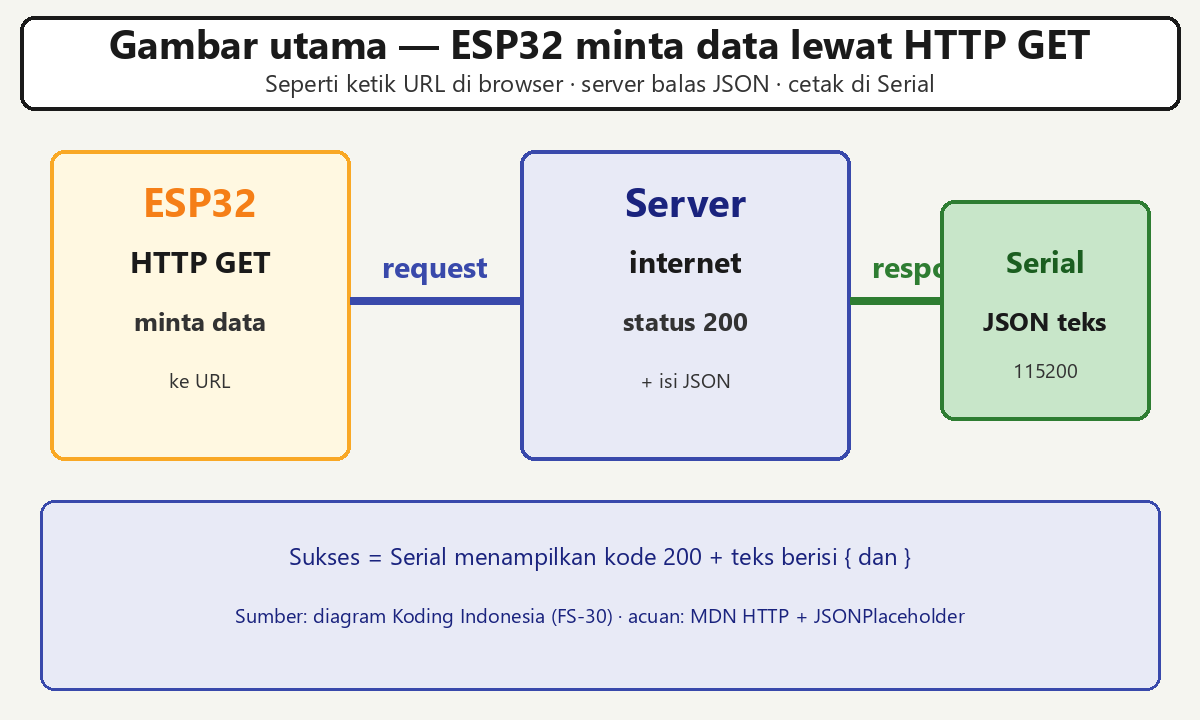
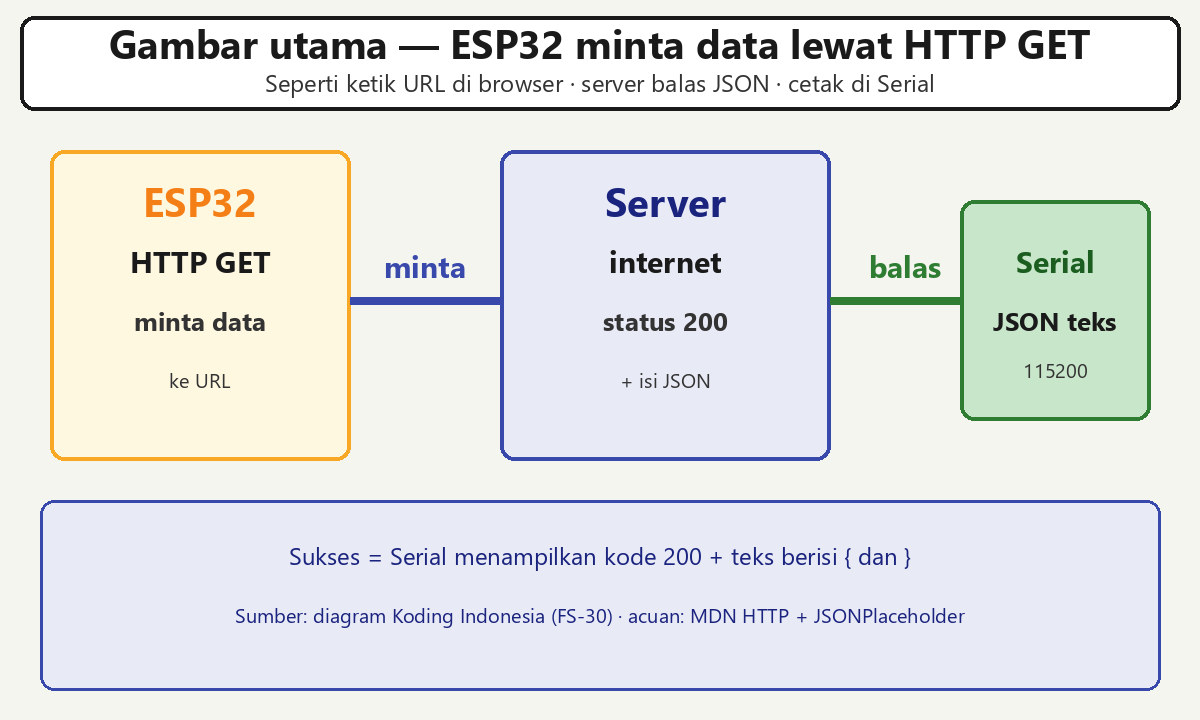
fix(fsiot): #100 QA awam — label gambar + mock browser JSON
Perbaiki label terpotong (minta/balas), status berbahasa ID, tambah latihan mata browser dengan sitasi JSONPlaceholder.

diff --git a/database/seeders/Article100Seeder.php b/database/seeders/Article100Seeder.php
@@ -108,6 +108,30 @@ HTML;
 HTML;
     }
 
+    private function browserFigureId(): string
+    {
+        return <<<'HTML'
+<figure style="margin:1.5rem 0;max-width:100%;background:#F5F5F0;border:2.5px solid #1a1a1a;border-radius:8px;padding:0.75rem 0.75rem 0.35rem">
+  <img src="/images/fsiot/fs30-browser-json.png" width="1200" height="700" alt="Contoh tampilan JSON di browser" loading="eager" style="width:100%;height:auto;max-height:560px;object-fit:contain;border-radius:6px;background:#F5F5F0">
+  <figcaption style="font-size:0.85rem;margin-top:0.5rem;color:#1a1a1a;">
+    <strong>Latihan mata.</strong> Buka URL demo di browser sampai terlihat <code>{</code> … <code>}</code>. Kolase UI buatan Koding Indonesia (FS-30). Isi contoh dari <a href="https://jsonplaceholder.typicode.com/todos/1" rel="noopener noreferrer" target="_blank">JSONPlaceholder /todos/1</a>.
+  </figcaption>
+</figure>
+HTML;
+    }
+
+    private function browserFigureEn(): string
+    {
+        return <<<'HTML'
+<figure style="margin:1.5rem 0;max-width:100%;background:#F5F5F0;border:2.5px solid #1a1a1a;border-radius:8px;padding:0.75rem 0.75rem 0.35rem">
+  <img src="/images/fsiot/fs30-browser-json.png" width="1200" height="700" alt="Example JSON view in a browser" loading="eager" style="width:100%;height:auto;max-height:560px;object-fit:contain;border-radius:6px;background:#F5F5F0">
+  <figcaption style="font-size:0.85rem;margin-top:0.5rem;color:#1a1a1a;">
+    <strong>Eye practice.</strong> Open the demo URL in a browser until you see <code>{</code> … <code>}</code>. UI collage by Koding Indonesia (FS-30). Sample body from <a href="https://jsonplaceholder.typicode.com/todos/1" rel="noopener noreferrer" target="_blank">JSONPlaceholder /todos/1</a>.
+  </figcaption>
+</figure>
+HTML;
+    }
+
     private function toolsFigureId(): string
     {
         return <<<'HTML'
@@ -214,7 +238,7 @@ HTML;
 <figure style="margin:1.5rem 0;max-width:100%;background:#F5F5F0;border:2.5px solid #1a1a1a;border-radius:8px;padding:0.75rem 0.75rem 0.35rem">
   <img src="/images/fsiot/fs30-status-codes.png" width="1200" height="560" alt="Kode status HTTP 200, 404, 500" loading="eager" style="width:100%;height:auto;max-height:480px;object-fit:contain;border-radius:6px;background:#F5F5F0">
   <figcaption style="font-size:0.85rem;margin-top:0.5rem;color:#1a1a1a;">
-    <strong>Kode status.</strong> <strong>200</strong> = berhasil · <strong>404</strong> = alamat tidak ada · <strong>500</strong> = server bermasalah. Sumber gambar: diagram Koding Indonesia (FS-30). Acuan: <a href="https://developer.mozilla.org/en-US/docs/Web/HTTP/Status" rel="noopener noreferrer" target="_blank">MDN — HTTP status</a>.
+    <strong>Kode status.</strong> <strong>200</strong> = berhasil · <strong>404</strong> = tidak ketemu (URL salah) · <strong>500</strong> = server bermasalah. Sumber gambar: diagram Koding Indonesia (FS-30). Acuan: <a href="https://developer.mozilla.org/en-US/docs/Web/HTTP/Status" rel="noopener noreferrer" target="_blank">MDN — HTTP status</a>.
   </figcaption>
 </figure>
 HTML;
@@ -226,7 +250,7 @@ HTML;
 <figure style="margin:1.5rem 0;max-width:100%;background:#F5F5F0;border:2.5px solid #1a1a1a;border-radius:8px;padding:0.75rem 0.75rem 0.35rem">
   <img src="/images/fsiot/fs30-status-codes.png" width="1200" height="560" alt="HTTP status codes 200, 404, 500" loading="eager" style="width:100%;height:auto;max-height:480px;object-fit:contain;border-radius:6px;background:#F5F5F0">
   <figcaption style="font-size:0.85rem;margin-top:0.5rem;color:#1a1a1a;">
-    <strong>Status codes.</strong> <strong>200</strong> = success · <strong>404</strong> = address missing · <strong>500</strong> = server problem. Image source: diagram by Koding Indonesia (FS-30). Ref: <a href="https://developer.mozilla.org/en-US/docs/Web/HTTP/Status" rel="noopener noreferrer" target="_blank">MDN — HTTP status</a>.
+    <strong>Status codes.</strong> <strong>200</strong> = success · <strong>404</strong> = not found (wrong URL) · <strong>500</strong> = server problem. Image source: diagram by Koding Indonesia (FS-30). Ref: <a href="https://developer.mozilla.org/en-US/docs/Web/HTTP/Status" rel="noopener noreferrer" target="_blank">MDN — HTTP status</a>.
   </figcaption>
 </figure>
 HTML;
@@ -369,6 +393,7 @@ CPP;
     {
         $ide = $this->ideFigureId();
         $tools = $this->toolsFigureId();
+        $browser = $this->browserFigureId();
         $core = $this->coreFigureId();
         $main = $this->mainFigureId();
         $schema = $this->schemaFigureId();
@@ -387,8 +412,8 @@ CPP;
 <li><strong>URL</strong> = alamat lengkap di internet (contoh <code>https://…/todos/1</code>).</li>
 <li><strong>HTTP GET</strong> = meminta data (bukan mengirim formulir panjang).</li>
 <li><strong>JSON</strong> = catatan berpasangan <em>nama: nilai</em> di dalam <code>{ }</code>.</li>
-<li><strong>Status 200 / 404 / 500</strong> = berhasil / alamat tidak ada / server bermasalah.</li>
-<li><strong>Header</strong> = keterangan tambahan di “amplop” (hari ini cukup tahu ada; belum wajib diutak-atik).</li>
+<li><strong>Status 200 / 404 / 500</strong> = berhasil / tidak ketemu / server bermasalah.</li>
+<li><strong>Header</strong> = keterangan tambahan di “amplop” (hari ini cukup tahu ada; belum wajib diubah-ubah).</li>
 </ul>
 <p><strong>Prasyarat:</strong> FS-29 (Wi-Fi + IP di Serial) · FS-14 (Upload + Serial Monitor).</p>
 <p><strong>Cara pakai artikel ini (urutan kerja):</strong></p>
@@ -407,12 +432,13 @@ CPP;
 <p><strong>Latihan mata (wajib sebelum kode):</strong> buka di browser (Chrome/Edge/Firefox):</p>
 <p><a href="https://jsonplaceholder.typicode.com/todos/1" rel="noopener noreferrer" target="_blank">https://jsonplaceholder.typicode.com/todos/1</a></p>
 <p>Kamu harus melihat teks berisi <code>{</code>, <code>"id"</code>, dan <code>}</code>. Itu JSON. Sumber demo: <a href="https://jsonplaceholder.typicode.com/" rel="noopener noreferrer" target="_blank">JSONPlaceholder</a> (API uji publik).</p>
+{$browser}
 {$ide}
 {$core}
 <ul>
 <li>ESP32 sudah punya IP (lulus FS-29) · board <strong>ESP32 Dev Module</strong> · kabel USB <strong>data</strong>.</li>
 <li><code>WiFi.h</code> + <code>HTTPClient.h</code> sudah di core — tidak perlu Library Manager.</li>
-<li>Siapkan Serial Monitor baud <strong>115200</strong>.</li>
+<li>Siapkan Serial Monitor: menu <strong>Tools → Serial Monitor</strong>, baud <strong>115200</strong>.</li>
 </ul>
 <p><strong>Alat yang dipakai hari ini:</strong> browser, Arduino IDE, Upload, ESP32, Wi-Fi, Serial Monitor.</p>
 <p><strong>Tidak dipakai hari ini:</strong> Laragon, <code>php artisan</code>, ArduinoJson, MQTT, microSD.</p>
@@ -481,6 +507,7 @@ HTML;
     {
         $ide = $this->ideFigureEn();
         $tools = $this->toolsFigureEn();
+        $browser = $this->browserFigureEn();
         $core = $this->coreFigureEn();
         $main = $this->mainFigureEn();
         $schema = $this->schemaFigureEn();
@@ -499,7 +526,7 @@ HTML;
 <li><strong>URL</strong> = full internet address (e.g. <code>https://…/todos/1</code>).</li>
 <li><strong>HTTP GET</strong> = ask for data (not sending a long form).</li>
 <li><strong>JSON</strong> = a note of <em>name: value</em> pairs inside <code>{ }</code>.</li>
-<li><strong>Status 200 / 404 / 500</strong> = success / missing address / server problem.</li>
+<li><strong>Status 200 / 404 / 500</strong> = success / not found / server problem.</li>
 <li><strong>Header</strong> = extra notes on the “envelope” (enough to know it exists today).</li>
 </ul>
 <p><strong>Prerequisites:</strong> FS-29 (Wi-Fi + IP on Serial) · FS-14 (Upload + Serial Monitor).</p>
@@ -519,12 +546,13 @@ HTML;
 <p><strong>Eye practice (required before code):</strong> open in a browser (Chrome/Edge/Firefox):</p>
 <p><a href="https://jsonplaceholder.typicode.com/todos/1" rel="noopener noreferrer" target="_blank">https://jsonplaceholder.typicode.com/todos/1</a></p>
 <p>You should see text with <code>{</code>, <code>"id"</code>, and <code>}</code>. That is JSON. Demo source: <a href="https://jsonplaceholder.typicode.com/" rel="noopener noreferrer" target="_blank">JSONPlaceholder</a> (public test API).</p>
+{$browser}
 {$ide}
 {$core}
 <ul>
 <li>ESP32 already has an IP (FS-29 done) · board <strong>ESP32 Dev Module</strong> · <strong>data</strong> USB cable.</li>
 <li><code>WiFi.h</code> + <code>HTTPClient.h</code> are in the core — no Library Manager.</li>
-<li>Prepare Serial Monitor at baud <strong>115200</strong>.</li>
+<li>Prepare Serial Monitor: menu <strong>Tools → Serial Monitor</strong>, baud <strong>115200</strong>.</li>
 </ul>
 <p><strong>Tools used today:</strong> browser, Arduino IDE, Upload, ESP32, Wi-Fi, Serial Monitor.</p>
 <p><strong>Not used today:</strong> Laragon, <code>php artisan</code>, ArduinoJson, MQTT, microSD.</p>

diff --git a/scripts/gen-fs30-assets.py b/scripts/gen-fs30-assets.py
@@ -124,22 +124,22 @@ center(d, 200, 260, "HTTP GET", FH, "#1a1a1a")
 center(d, 200, 320, "minta data", FB, "#333")
 center(d, 200, 380, "ke URL", FS, "#333")
 
-d.line([(350, 300), (520, 300)], fill="#3949AB", width=8)
-center(d, 435, 265, "request", FH, "#3949AB")
+d.line([(350, 300), (500, 300)], fill="#3949AB", width=8)
+center(d, 425, 265, "minta", FH, "#3949AB")
 
-box(d, (520, 150, 850, 460), "#E8EAF6", "#3949AB", 4)
-center(d, 685, 200, "Server", FT, "#1A237E")
-center(d, 685, 260, "internet", FH, "#1a1a1a")
-center(d, 685, 320, "status 200", FB, "#333")
-center(d, 685, 380, "+ isi JSON", FS, "#333")
+box(d, (500, 150, 830, 460), "#E8EAF6", "#3949AB", 4)
+center(d, 665, 200, "Server", FT, "#1A237E")
+center(d, 665, 260, "internet", FH, "#1a1a1a")
+center(d, 665, 320, "status 200", FB, "#333")
+center(d, 665, 380, "+ isi JSON", FS, "#333")
 
-d.line([(850, 300), (1020, 300)], fill="#2E7D32", width=8)
-center(d, 935, 265, "response", FH, "#2E7D32")
+d.line([(830, 300), (980, 300)], fill="#2E7D32", width=8)
+center(d, 905, 265, "balas", FH, "#2E7D32")
 
-box(d, (940, 200, 1150, 420), "#C8E6C9", "#2E7D32", 4)
-center(d, 1045, 260, "Serial", FH, "#1B5E20")
-center(d, 1045, 320, "JSON teks", FB, "#1a1a1a")
-center(d, 1045, 370, "115200", FS, "#333")
+box(d, (960, 200, 1150, 420), "#C8E6C9", "#2E7D32", 4)
+center(d, 1055, 260, "Serial", FH, "#1B5E20")
+center(d, 1055, 320, "JSON teks", FB, "#1a1a1a")
+center(d, 1055, 370, "115200", FS, "#333")
 
 box(d, (40, 500, W - 40, 690), "#E8EAF6", "#3949AB", 3)
 center(d, W // 2, 555, "Sukses = Serial menampilkan kode 200 + teks berisi { dan }", F, "#1A237E")
@@ -179,8 +179,8 @@ center(d, 600, 40, "Kode status HTTP — bahasa manusia", FT)
 center(d, 600, 75, "Angka dari server: berhasil / tidak ketemu / server lagi masalah", F, "#333")
 codes = [
     ("200", "OK", "Berhasil — data datang", "#E8F5E9", "#2E7D32"),
-    ("404", "Not Found", "Alamat tidak ada", "#FFF8E1", "#F9A825"),
-    ("500", "Server Error", "Server lagi bermasalah", "#FFEBEE", "#C62828"),
+    ("404", "Tidak ketemu", "Alamat / URL salah", "#FFF8E1", "#F9A825"),
+    ("500", "Server bermasalah", "Bukan salah ESP32", "#FFEBEE", "#C62828"),
 ]
 for i, (code, name, tip, fill, out) in enumerate(codes):
     x0 = 50 + i * 380
@@ -189,7 +189,7 @@ for i, (code, name, tip, fill, out) in enumerate(codes):
     center(d, x0 + 175, 280, name, FH, "#1a1a1a")
     center(d, x0 + 175, 350, tip, F, "#333")
 box(d, (40, 460, 1160, 530), "#FFFFFF", "#1a1a1a", 3)
-center(d, 600, 495, "Sumber: diagram Koding Indonesia (FS-30) · acuan: MDN HTTP response status codes", FS, "#333")
+center(d, 600, 495, "Sumber: diagram Koding Indonesia (FS-30) · acuan: MDN HTTP status codes", FS, "#333")
 st.save(OUT / "fs30-status-codes.png", optimize=True)
 print("status", (OUT / "fs30-status-codes.png").stat().st_size)
 
@@ -221,4 +221,35 @@ for j, ln in enumerate([
     center(d, 945, 250 + j * 45, ln, F, "#1a1a1a")
 suc.save(OUT / "fs30-success-serial.png", optimize=True)
 print("success", (OUT / "fs30-success-serial.png").stat().st_size)
+
+# --- Browser mock: what JSON looks like in Chrome-like window ---
+br = Image.new("RGB", (1200, 700), "#F5F5F0")
+d = ImageDraw.Draw(br)
+box(d, (20, 16, 1180, 90), "#FFFFFF", "#1a1a1a", 4)
+center(d, 600, 53, "Latihan mata — JSON di browser (seperti ini)", FT)
+
+# chrome bar
+box(d, (60, 120, 1140, 640), "#FFFFFF", "#1a1a1a", 4)
+d.rectangle((60, 120, 1140, 175), fill="#E8EAF6")
+center(d, 140, 148, "● ● ●", F, "#9E9E9E")
+box(d, (220, 135, 1080, 165), "#FFFFFF", "#9E9E9E", 2, 8)
+d.text((235, 140), "jsonplaceholder.typicode.com/todos/1", font=FS, fill="#333")
+
+# body JSON
+body_lines = [
+    ("{", "#1565C0"),
+    ('  "userId": 1,', "#6A1B9A"),
+    ('  "id": 1,', "#6A1B9A"),
+    ('  "title": "delectus aut autem",', "#2E7D32"),
+    ('  "completed": false', "#C62828"),
+    ("}", "#1565C0"),
+]
+for i, (ln, col) in enumerate(body_lines):
+    d.text((100, 210 + i * 48), ln, font=FM, fill=col)
+
+d.text((100, 520), "Yang dicari mata: ada {  dan  }  · ada \"id\" · ada tanda kutip", font=F, fill="#333")
+d.text((100, 570), "Sumber isi: JSONPlaceholder · https://jsonplaceholder.typicode.com/todos/1", font=FS, fill="#555")
+d.text((100, 610), "Kolase UI: Koding Indonesia (FS-30) — bukan screenshot resmi Chrome", font=FS, fill="#555")
+br.save(OUT / "fs30-browser-json.png", optimize=True)
+print("browser", (OUT / "fs30-browser-json.png").stat().st_size)
 print("done")

diff --git a/scripts/audit-article100.php b/scripts/audit-article100.php
@@ -52,6 +52,7 @@ check('friendly tip labels ID', str_contains($id, 'Intinya:') && str_contains($i
 check('friendly tip labels EN', str_contains($en, 'In short:') && str_contains($en, 'Analogy:'));
 check('H2 parity', substr_count($id, '<h2') === substr_count($en, '<h2'));
 check('figures both >= 7', substr_count($id, '<figure') >= 7 && substr_count($en, '<figure') >= 7);
+check('fs30-browser-json.png asset', is_file($root.'/public/images/fsiot/fs30-browser-json.png'));
 foreach (['fs30-http-get.png', 'fs30-json-anatomy.png', 'fs30-tools-order.png', 'fs30-http-core.png', 'fs30-status-codes.png', 'fs30-success-serial.png', 'fs30-cover-http.jpg', 'fs30-cover-http.webp'] as $asset) {
     check($asset.' asset', is_file($root.'/public/images/fsiot/'.$asset));
 }

diff --git a/scripts/wire-article100-infra.py b/scripts/wire-article100-infra.py
@@ -247,7 +247,8 @@ fs30 = (
     "images/fsiot/fs30-cover-http.jpg images/fsiot/fs30-cover-http.webp "
     "images/fsiot/fs30-tools-order.png images/fsiot/fs30-http-core.png "
     "images/fsiot/fs30-http-get.png images/fsiot/fs30-json-anatomy.png "
-    "images/fsiot/fs30-status-codes.png images/fsiot/fs30-success-serial.png"
+    "images/fsiot/fs30-status-codes.png images/fsiot/fs30-success-serial.png "
+    "images/fsiot/fs30-browser-json.png"
 )
 if "fs30-http-get.png" not in t:
     old = (
